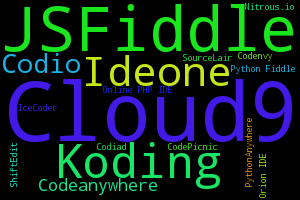
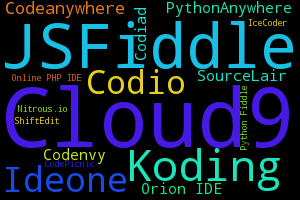
Undo ODE

diff --git a/ODE.html b/ODE.html
@@ -134,107 +134,103 @@ country["FR"]="France"
 function refreshTop() {        
 cloud = "All.png"
 table = "<!-- begin section All-->\
-<td class=center>1</td><td class=center></td><td>Cloud9</td><td class=right>32.65 %</td><td class=\"right optCol\">-1.6 %</td></tr>\
-<tr><td class=center>2</td><td class=center></td><td>JSFiddle</td><td class=right>25.32 %</td><td class=\"right optCol\">-7.6 %</td></tr>\
-<tr><td class=center>3</td><td class=center></td><td>Koding</td><td class=right>7.52 %</td><td class=\"right optCol\">-2.8 %</td></tr>\
-<tr><td class=center>4</td><td class=center><image src=Up.png><image src=Up.png><image src=Up.png><image src=Up.png><image src=Up.png><image src=Up.png><image src=Up.png><image src=Up.png><image src=Up.png><image src=Up.png><image src=Up.png><image src=Up.png></td><td>Orion IDE</td><td class=right>6.38 %</td><td class=\"right optCol\">+6.2 %</td></tr>\
-<tr><td class=center>5</td><td class=center><image src=Down.png></td><td>Ideone</td><td class=right>5.1 %</td><td class=\"right optCol\">-1.1 %</td></tr>\
-<tr><td class=center>6</td><td class=center><image src=Up.png><image src=Up.png><image src=Up.png><image src=Up.png><image src=Up.png><image src=Up.png></td><td>SourceLair</td><td class=right>4.32 %</td><td class=\"right optCol\">+4.0 %</td></tr>\
-<tr><td class=center>7</td><td class=center><image src=Down.png><image src=Down.png></td><td>Codio</td><td class=right>4.31 %</td><td class=\"right optCol\">-1.6 %</td></tr>\
-<tr><td class=center>8</td><td class=center><image src=Up.png><image src=Up.png><image src=Up.png><image src=Up.png><image src=Up.png><image src=Up.png><image src=Up.png><image src=Up.png><image src=Up.png></td><td>CodePicnic</td><td class=right>4.17 %</td><td class=\"right optCol\">+4.0 %</td></tr>\
-<tr><td class=center>9</td><td class=center><image src=Down.png><image src=Down.png><image src=Down.png></td><td>Codeanywhere</td><td class=right>3.46 %</td><td class=\"right optCol\">-0.6 %</td></tr>\
-<tr><td class=center>10</td><td class=center><image src=Down.png><image src=Down.png><image src=Down.png></td><td>PythonAnywhere</td><td class=right>2.39 %</td><td class=\"right optCol\">+0.3 %</td></tr>\
-<tr><td class=center>11</td><td class=center><image src=Up.png><image src=Up.png><image src=Up.png><image src=Up.png></td><td>Nitrous.io</td><td class=right>2.13 %</td><td class=\"right optCol\">+1.9 %</td></tr>\
-<tr><td class=center>12</td><td class=center><image src=Down.png><image src=Down.png><image src=Down.png><image src=Down.png></td><td>Codenvy</td><td class=right>1.12 %</td><td class=\"right optCol\">-0.4 %</td></tr>\
-<tr><td class=center>13</td><td class=center><image src=Down.png><image src=Down.png></td><td>Python Fiddle</td><td class=right>0.31 %</td><td class=\"right optCol\">-0.1 %</td></tr>\
-<tr><td class=center>14</td><td class=center><image src=Down.png><image src=Down.png><image src=Down.png><image src=Down.png><image src=Down.png></td><td>Codiad</td><td class=right>0.3 %</td><td class=\"right optCol\">-0.2 %</td></tr>\
-<tr><td class=center>15</td><td class=center><image src=Down.png><image src=Down.png><image src=Down.png><image src=Down.png><image src=Down.png></td><td>Online PHP IDE</td><td class=right>0.28 %</td><td class=\"right optCol\">-0.2 %</td></tr>\
-<tr><td class=center>16</td><td class=center><image src=Down.png><image src=Down.png></td><td>IceCoder</td><td class=right>0.12 %</td><td class=\"right optCol\">-0.1 %</td></tr>\
-<tr><td class=center>17</td><td class=center><image src=Down.png><image src=Down.png><image src=Down.png><image src=Down.png></td><td>ShiftEdit</td><td class=right>0.11 %</td><td class=\"right optCol\">-0.2 %</td>\
+<td class=center>1</td><td class=center></td><td>Cloud9</td><td class=right>37.59 %</td><td class=\"right optCol\">+2.0 %</td></tr>\
+<tr><td class=center>2</td><td class=center></td><td>JSFiddle</td><td class=right>32.25 %</td><td class=\"right optCol\">+0.0 %</td></tr>\
+<tr><td class=center>3</td><td class=center></td><td>Koding</td><td class=right>8.87 %</td><td class=\"right optCol\">-2.1 %</td></tr>\
+<tr><td class=center>4</td><td class=center></td><td>Ideone</td><td class=right>6.1 %</td><td class=\"right optCol\">-0.2 %</td></tr>\
+<tr><td class=center>5</td><td class=center></td><td>Codio</td><td class=right>5.25 %</td><td class=\"right optCol\">-0.6 %</td></tr>\
+<tr><td class=center>6</td><td class=center></td><td>Codeanywhere</td><td class=right>3.97 %</td><td class=\"right optCol\">+0.0 %</td></tr>\
+<tr><td class=center>7</td><td class=center></td><td>PythonAnywhere</td><td class=right>3.09 %</td><td class=\"right optCol\">+1.5 %</td></tr>\
+<tr><td class=center>8</td><td class=center></td><td>Codenvy</td><td class=right>1.44 %</td><td class=\"right optCol\">+0.1 %</td></tr>\
+<tr><td class=center>9</td><td class=center></td><td>Codiad</td><td class=right>0.36 %</td><td class=\"right optCol\">-0.1 %</td></tr>\
+<tr><td class=center>10</td><td class=center></td><td>Online PHP IDE</td><td class=right>0.34 %</td><td class=\"right optCol\">+0.2 %</td></tr>\
+<tr><td class=center>11</td><td class=center></td><td>Python Fiddle</td><td class=right>0.34 %</td><td class=\"right optCol\">-0.1 %</td></tr>\
+<tr><td class=center>12</td><td class=center><image src=Up.png><image src=Up.png></td><td>Orion IDE</td><td class=right>0.12 %</td><td class=\"right optCol\">+0.0 %</td></tr>\
+<tr><td class=center>13</td><td class=center><image src=Up.png><image src=Up.png></td><td>IceCoder</td><td class=right>0.1 %</td><td class=\"right optCol\">+0.0 %</td></tr>\
+<tr><td class=center>14</td><td class=center><image src=Down.png></td><td>Nitrous.io</td><td class=right>0.05 %</td><td class=\"right optCol\">-0.2 %</td></tr>\
+<tr><td class=center>15</td><td class=center><image src=Up.png></td><td>SourceLair</td><td class=right>0.05 %</td><td class=\"right optCol\">+0.0 %</td></tr>\
+<tr><td class=center>16</td><td class=center><image src=Down.png><image src=Down.png><image src=Down.png><image src=Down.png></td><td>ShiftEdit</td><td class=right>0.05 %</td><td class=\"right optCol\">-0.3 %</td></tr>\
+<tr><td class=center>17</td><td class=center></td><td>CodePicnic</td><td class=right>0.04 %</td><td class=\"right optCol\">+0.0 %</td>\
 <!-- end section All-->\
 ";
 if (getUrlParameter('country') == "US") {
 cloud = "US.png"
 table = "<!-- begin section US-->\
-<td class=center>1</td><td class=center></td><td>Cloud9</td><td class=right>55.43 %</td><td class=\"right optCol\">+6.1 %</td></tr>\
-<tr><td class=center>2</td><td class=center></td><td>JSFiddle</td><td class=right>29.84 %</td><td class=\"right optCol\">-3.0 %</td></tr>\
-<tr><td class=center>3</td><td class=center></td><td>Codeanywhere</td><td class=right>3.73 %</td><td class=\"right optCol\">-0.6 %</td></tr>\
-<tr><td class=center>4</td><td class=center><image src=Up.png><image src=Up.png><image src=Up.png></td><td>PythonAnywhere</td><td class=right>3.03 %</td><td class=\"right optCol\">+1.0 %</td></tr>\
-<tr><td class=center>5</td><td class=center><image src=Up.png></td><td>Codio</td><td class=right>2.11 %</td><td class=\"right optCol\">+0.1 %</td></tr>\
-<tr><td class=center>6</td><td class=center><image src=Down.png><image src=Down.png></td><td>Ideone</td><td class=right>1.89 %</td><td class=\"right optCol\">-1.2 %</td></tr>\
-<tr><td class=center>7</td><td class=center><image src=Down.png><image src=Down.png></td><td>Codenvy</td><td class=right>1.44 %</td><td class=\"right optCol\">-0.6 %</td></tr>\
-<tr><td class=center>8</td><td class=center></td><td>Koding</td><td class=right>1.39 %</td><td class=\"right optCol\">-0.5 %</td></tr>\
-<tr><td class=center>9</td><td class=center></td><td>Python Fiddle</td><td class=right>0.67 %</td><td class=\"right optCol\">-0.1 %</td></tr>\
-<tr><td class=center>10</td><td class=center><image src=Up.png><image src=Up.png></td><td>Codiad</td><td class=right>0.16 %</td><td class=\"right optCol\">-0.3 %</td></tr>\
-<tr><td class=center>11</td><td class=center><image src=Up.png><image src=Up.png></td><td>SourceLair</td><td class=right>0.16 %</td><td class=\"right optCol\">+0.1 %</td></tr>\
-<tr><td class=center>12</td><td class=center><image src=Down.png><image src=Down.png></td><td>Nitrous.io</td><td class=right>0.13 %</td><td class=\"right optCol\">-0.4 %</td></tr>\
-<tr><td class=center>13</td><td class=center><image src=Down.png><image src=Down.png></td><td>ShiftEdit</td><td class=right>0.03 %</td><td class=\"right optCol\">-0.5 %</td>\
+<td class=center>1</td><td class=center></td><td>Cloud9</td><td class=right>52.09 %</td><td class=\"right optCol\">+1.7 %</td></tr>\
+<tr><td class=center>2</td><td class=center></td><td>JSFiddle</td><td class=right>29.72 %</td><td class=\"right optCol\">-0.6 %</td></tr>\
+<tr><td class=center>3</td><td class=center></td><td>Codeanywhere</td><td class=right>3.62 %</td><td class=\"right optCol\">-1.1 %</td></tr>\
+<tr><td class=center>4</td><td class=center><image src=Up.png></td><td>PythonAnywhere</td><td class=right>2.99 %</td><td class=\"right optCol\">+1.0 %</td></tr>\
+<tr><td class=center>5</td><td class=center><image src=Up.png><image src=Up.png><image src=Up.png></td><td>Codio</td><td class=right>2.35 %</td><td class=\"right optCol\">+0.5 %</td></tr>\
+<tr><td class=center>6</td><td class=center><image src=Down.png><image src=Down.png></td><td>Ideone</td><td class=right>2.26 %</td><td class=\"right optCol\">-0.7 %</td></tr>\
+<tr><td class=center>7</td><td class=center></td><td>Codenvy</td><td class=right>1.99 %</td><td class=\"right optCol\">-0.2 %</td></tr>\
+<tr><td class=center>8</td><td class=center><image src=Down.png><image src=Down.png></td><td>Koding</td><td class=right>1.72 %</td><td class=\"right optCol\">-0.8 %</td></tr>\
+<tr><td class=center>9</td><td class=center><image src=Up.png><image src=Up.png></td><td>Python Fiddle</td><td class=right>1.46 %</td><td class=\"right optCol\">+0.9 %</td></tr>\
+<tr><td class=center>10</td><td class=center></td><td>Codiad</td><td class=right>0.74 %</td><td class=\"right optCol\">-0.1 %</td></tr>\
+<tr><td class=center>11</td><td class=center><image src=Down.png><image src=Down.png></td><td>ShiftEdit</td><td class=right>0.43 %</td><td class=\"right optCol\">-0.1 %</td></tr>\
+<tr><td class=center>12</td><td class=center></td><td>Nitrous.io</td><td class=right>0.38 %</td><td class=\"right optCol\">+0.0 %</td></tr>\
+<tr><td class=center>13</td><td class=center></td><td>SourceLair</td><td class=right>0.26 %</td><td class=\"right optCol\">-0.3 %</td>\
 <!-- end section US-->\
 ";
 }
 if (getUrlParameter('country') == "DE") {
 cloud = "DE.png"
 table = "<!-- begin section DE-->\
-<td class=center>1</td><td class=center><image src=Up.png></td><td>Cloud9</td><td class=right>49.05 %</td><td class=\"right optCol\">+7.8 %</td></tr>\
-<tr><td class=center>2</td><td class=center><image src=Down.png></td><td>JSFiddle</td><td class=right>36.02 %</td><td class=\"right optCol\">-7.4 %</td></tr>\
-<tr><td class=center>3</td><td class=center></td><td>Codeanywhere</td><td class=right>3.47 %</td><td class=\"right optCol\">+0.4 %</td></tr>\
-<tr><td class=center>4</td><td class=center><image src=Up.png><image src=Up.png><image src=Up.png></td><td>PythonAnywhere</td><td class=right>2.43 %</td><td class=\"right optCol\">+0.6 %</td></tr>\
-<tr><td class=center>5</td><td class=center></td><td>Ideone</td><td class=right>2.33 %</td><td class=\"right optCol\">-0.1 %</td></tr>\
-<tr><td class=center>6</td><td class=center></td><td>Koding</td><td class=right>2.3 %</td><td class=\"right optCol\">-0.1 %</td></tr>\
-<tr><td class=center>7</td><td class=center><image src=Up.png></td><td>Codenvy</td><td class=right>1.79 %</td><td class=\"right optCol\">+0.4 %</td></tr>\
-<tr><td class=center>8</td><td class=center><image src=Down.png><image src=Down.png><image src=Down.png><image src=Down.png></td><td>Codiad</td><td class=right>1.64 %</td><td class=\"right optCol\">-0.9 %</td></tr>\
-<tr><td class=center>9</td><td class=center></td><td>Codio</td><td class=right>0.6 %</td><td class=\"right optCol\">-0.7 %</td></tr>\
-<tr><td class=center>10</td><td class=center></td><td>Orion IDE</td><td class=right>0.38 %</td><td class=\"right optCol\">-0.1 %</td>\
+<td class=center>1</td><td class=center><image src=Up.png></td><td>Cloud9</td><td class=right>42.37 %</td><td class=\"right optCol\">+4.0 %</td></tr>\
+<tr><td class=center>2</td><td class=center><image src=Down.png></td><td>JSFiddle</td><td class=right>35.65 %</td><td class=\"right optCol\">-1.1 %</td></tr>\
+<tr><td class=center>3</td><td class=center></td><td>Codeanywhere</td><td class=right>6.33 %</td><td class=\"right optCol\">-0.1 %</td></tr>\
+<tr><td class=center>4</td><td class=center></td><td>Koding</td><td class=right>4.98 %</td><td class=\"right optCol\">-1.7 %</td></tr>\
+<tr><td class=center>5</td><td class=center><image src=Up.png></td><td>Codenvy</td><td class=right>2.66 %</td><td class=\"right optCol\">+1.2 %</td></tr>\
+<tr><td class=center>6</td><td class=center><image src=Down.png></td><td>Ideone</td><td class=right>2.22 %</td><td class=\"right optCol\">-3.5 %</td></tr>\
+<tr><td class=center>7</td><td class=center><image src=Up.png><image src=Up.png></td><td>PythonAnywhere</td><td class=right>1.85 %</td><td class=\"right optCol\">+0.9 %</td></tr>\
+<tr><td class=center>8</td><td class=center></td><td>Codiad</td><td class=right>1.74 %</td><td class=\"right optCol\">+0.2 %</td></tr>\
+<tr><td class=center>9</td><td class=center><image src=Up.png></td><td>Orion IDE</td><td class=right>1.65 %</td><td class=\"right optCol\">+1.8 %</td></tr>\
+<tr><td class=center>10</td><td class=center><image src=Down.png><image src=Down.png><image src=Down.png></td><td>Codio</td><td class=right>0.54 %</td><td class=\"right optCol\">-1.6 %</td>\
 <!-- end section DE-->\
 ";
 }
 if (getUrlParameter('country') == "IN") {
 cloud = "IN.png"
 table = "<!-- begin section IN-->\
-<td class=center>1</td><td class=center></td><td>JSFiddle</td><td class=right>62.41 %</td><td class=\"right optCol\">-1.0 %</td></tr>\
-<tr><td class=center>2</td><td class=center></td><td>Ideone</td><td class=right>17.88 %</td><td class=\"right optCol\">-2.8 %</td></tr>\
-<tr><td class=center>3</td><td class=center></td><td>Cloud9</td><td class=right>13.06 %</td><td class=\"right optCol\">+2.4 %</td></tr>\
-<tr><td class=center>4</td><td class=center><image src=Up.png></td><td>PythonAnywhere</td><td class=right>2.86 %</td><td class=\"right optCol\">+1.7 %</td></tr>\
-<tr><td class=center>5</td><td class=center><image src=Up.png><image src=Up.png></td><td>Codeanywhere</td><td class=right>1.24 %</td><td class=\"right optCol\">+0.4 %</td></tr>\
-<tr><td class=center>6</td><td class=center></td><td>Codenvy</td><td class=right>0.82 %</td><td class=\"right optCol\">-0.1 %</td></tr>\
-<tr><td class=center>7</td><td class=center><image src=Down.png><image src=Down.png><image src=Down.png></td><td>Koding</td><td class=right>0.71 %</td><td class=\"right optCol\">-0.9 %</td></tr>\
-<tr><td class=center>8</td><td class=center><image src=Up.png><image src=Up.png></td><td>Python Fiddle</td><td class=right>0.41 %</td><td class=\"right optCol\">+0.3 %</td></tr>\
-<tr><td class=center>9</td><td class=center><image src=Down.png></td><td>Codio</td><td class=right>0.36 %</td><td class=\"right optCol\">-0.2 %</td></tr>\
-<tr><td class=center>10</td><td class=center><image src=Down.png></td><td>Codiad</td><td class=right>0.25 %</td><td class=\"right optCol\">+0.1 %</td></tr>\
-<tr><td class=center>11</td><td class=center></td><td>SourceLair</td><td class=right>0.0 %</td><td class=\"right optCol\">+0.0 %</td>\
+<td class=center>1</td><td class=center></td><td>JSFiddle</td><td class=right>58.77 %</td><td class=\"right optCol\">-5.5 %</td></tr>\
+<tr><td class=center>2</td><td class=center></td><td>Ideone</td><td class=right>18.61 %</td><td class=\"right optCol\">+3.0 %</td></tr>\
+<tr><td class=center>3</td><td class=center></td><td>Cloud9</td><td class=right>12.02 %</td><td class=\"right optCol\">+0.7 %</td></tr>\
+<tr><td class=center>4</td><td class=center><image src=Up.png></td><td>PythonAnywhere</td><td class=right>3.04 %</td><td class=\"right optCol\">+1.6 %</td></tr>\
+<tr><td class=center>5</td><td class=center><image src=Up.png></td><td>Codeanywhere</td><td class=right>1.88 %</td><td class=\"right optCol\">+0.5 %</td></tr>\
+<tr><td class=center>6</td><td class=center><image src=Down.png><image src=Down.png></td><td>Koding</td><td class=right>1.66 %</td><td class=\"right optCol\">-1.6 %</td></tr>\
+<tr><td class=center>7</td><td class=center><image src=Up.png></td><td>Codenvy</td><td class=right>1.41 %</td><td class=\"right optCol\">+0.2 %</td></tr>\
+<tr><td class=center>8</td><td class=center><image src=Up.png></td><td>Codiad</td><td class=right>0.9 %</td><td class=\"right optCol\">+0.6 %</td></tr>\
+<tr><td class=center>9</td><td class=center><image src=Up.png></td><td>Python Fiddle</td><td class=right>0.81 %</td><td class=\"right optCol\">+0.8 %</td></tr>\
+<tr><td class=center>10</td><td class=center><image src=Down.png><image src=Down.png><image src=Down.png></td><td>Codio</td><td class=right>0.77 %</td><td class=\"right optCol\">-0.2 %</td></tr>\
+<tr><td class=center>11</td><td class=center></td><td>SourceLair</td><td class=right>0.12 %</td><td class=\"right optCol\">+0.0 %</td>\
 <!-- end section IN-->\
 ";
 }
 if (getUrlParameter('country') == "GB") {
 cloud = "GB.png"
 table = "<!-- begin section GB-->\
-<td class=center>1</td><td class=center></td><td>Cloud9</td><td class=right>49.97 %</td><td class=\"right optCol\">+13.8 %</td></tr>\
-<tr><td class=center>2</td><td class=center></td><td>JSFiddle</td><td class=right>29.53 %</td><td class=\"right optCol\">-3.3 %</td></tr>\
-<tr><td class=center>3</td><td class=center></td><td>Codio</td><td class=right>8.58 %</td><td class=\"right optCol\">-8.7 %</td></tr>\
-<tr><td class=center>4</td><td class=center><image src=Up.png></td><td>PythonAnywhere</td><td class=right>3.55 %</td><td class=\"right optCol\">+0.7 %</td></tr>\
-<tr><td class=center>5</td><td class=center><image src=Down.png></td><td>Codeanywhere</td><td class=right>3.07 %</td><td class=\"right optCol\">-2.0 %</td></tr>\
-<tr><td class=center>6</td><td class=center><image src=Up.png><image src=Up.png><image src=Up.png></td><td>Codenvy</td><td class=right>1.36 %</td><td class=\"right optCol\">+0.7 %</td></tr>\
-<tr><td class=center>7</td><td class=center><image src=Up.png></td><td>Python Fiddle</td><td class=right>1.26 %</td><td class=\"right optCol\">+0.3 %</td></tr>\
-<tr><td class=center>8</td><td class=center><image src=Down.png></td><td>Ideone</td><td class=right>1.14 %</td><td class=\"right optCol\">-0.4 %</td></tr>\
-<tr><td class=center>9</td><td class=center><image src=Down.png><image src=Down.png><image src=Down.png></td><td>Koding</td><td class=right>0.95 %</td><td class=\"right optCol\">-1.1 %</td></tr>\
-<tr><td class=center>10</td><td class=center></td><td>Codiad</td><td class=right>0.34 %</td><td class=\"right optCol\">+0.0 %</td></tr>\
-<tr><td class=center>11</td><td class=center></td><td>ShiftEdit</td><td class=right>0.25 %</td><td class=\"right optCol\">+0.2 %</td>\
+<td class=center>1</td><td class=center></td><td>Cloud9</td><td class=right>44.94 %</td><td class=\"right optCol\">+7.8 %</td></tr>\
+<tr><td class=center>2</td><td class=center></td><td>JSFiddle</td><td class=right>35.0 %</td><td class=\"right optCol\">+7.5 %</td></tr>\
+<tr><td class=center>3</td><td class=center></td><td>Codio</td><td class=right>7.01 %</td><td class=\"right optCol\">-17.3 %</td></tr>\
+<tr><td class=center>4</td><td class=center></td><td>Codeanywhere</td><td class=right>4.33 %</td><td class=\"right optCol\">+0.5 %</td></tr>\
+<tr><td class=center>5</td><td class=center></td><td>PythonAnywhere</td><td class=right>4.32 %</td><td class=\"right optCol\">+1.2 %</td></tr>\
+<tr><td class=center>6</td><td class=center><image src=Up.png></td><td>Ideone</td><td class=right>2.43 %</td><td class=\"right optCol\">+1.1 %</td></tr>\
+<tr><td class=center>7</td><td class=center><image src=Up.png></td><td>Codenvy</td><td class=right>1.33 %</td><td class=\"right optCol\">+0.6 %</td></tr>\
+<tr><td class=center>8</td><td class=center><image src=Down.png><image src=Down.png></td><td>Koding</td><td class=right>0.29 %</td><td class=\"right optCol\">-2.1 %</td></tr>\
+<tr><td class=center>9</td><td class=center><image src=Up.png><image src=Up.png><image src=Up.png><image src=Up.png><image src=Up.png><image src=Up.png><image src=Up.png></td><td>Codiad</td><td class=right>0.24 %</td><td class=\"right optCol\">+0.5 %</td></tr>\
+<tr><td class=center>10</td><td class=center><image src=Down.png></td><td>Python Fiddle</td><td class=right>0.16 %</td><td class=\"right optCol\">+0.1 %</td>\
 <!-- end section GB-->\
 ";
 }
 if (getUrlParameter('country') == "FR") {
 cloud = "FR.png"
 table = "<!-- begin section FR-->\
-<td class=center>1</td><td class=center></td><td>JSFiddle</td><td class=right>44.22 %</td><td class=\"right optCol\">+2.6 %</td></tr>\
-<tr><td class=center>2</td><td class=center></td><td>Cloud9</td><td class=right>37.21 %</td><td class=\"right optCol\">-2.3 %</td></tr>\
-<tr><td class=center>3</td><td class=center></td><td>Codeanywhere</td><td class=right>5.34 %</td><td class=\"right optCol\">+0.1 %</td></tr>\
-<tr><td class=center>4</td><td class=center><image src=Up.png><image src=Up.png></td><td>PythonAnywhere</td><td class=right>4.28 %</td><td class=\"right optCol\">+2.2 %</td></tr>\
-<tr><td class=center>5</td><td class=center><image src=Up.png><image src=Up.png><image src=Up.png><image src=Up.png></td><td>Codenvy</td><td class=right>2.6 %</td><td class=\"right optCol\">+0.7 %</td></tr>\
-<tr><td class=center>6</td><td class=center><image src=Down.png><image src=Down.png></td><td>Ideone</td><td class=right>2.33 %</td><td class=\"right optCol\">-0.9 %</td></tr>\
-<tr><td class=center>7</td><td class=center><image src=Down.png><image src=Down.png></td><td>Codiad</td><td class=right>2.19 %</td><td class=\"right optCol\">-0.3 %</td></tr>\
-<tr><td class=center>8</td><td class=center><image src=Down.png></td><td>Koding</td><td class=right>1.35 %</td><td class=\"right optCol\">-0.6 %</td></tr>\
-<tr><td class=center>9</td><td class=center><image src=Down.png></td><td>Codio</td><td class=right>0.25 %</td><td class=\"right optCol\">-1.7 %</td></tr>\
-<tr><td class=center>10</td><td class=center></td><td>IceCoder</td><td class=right>0.23 %</td><td class=\"right optCol\">+0.2 %</td>\
+<td class=center>1</td><td class=center></td><td>JSFiddle</td><td class=right>45.68 %</td><td class=\"right optCol\">-4.9 %</td></tr>\
+<tr><td class=center>2</td><td class=center></td><td>Cloud9</td><td class=right>42.95 %</td><td class=\"right optCol\">+3.7 %</td></tr>\
+<tr><td class=center>3</td><td class=center><image src=Up.png></td><td>Codeanywhere</td><td class=right>4.8 %</td><td class=\"right optCol\">+2.6 %</td></tr>\
+<tr><td class=center>4</td><td class=center><image src=Up.png></td><td>Codiad</td><td class=right>3.48 %</td><td class=\"right optCol\">-1.7 %</td></tr>\
+<tr><td class=center>5</td><td class=center><image src=Down.png><image src=Down.png></td><td>Koding</td><td class=right>2.1 %</td><td class=\"right optCol\">+0.1 %</td></tr>\
+<tr><td class=center>6</td><td class=center></td><td>PythonAnywhere</td><td class=right>0.74 %</td><td class=\"right optCol\">-0.9 %</td></tr>\
+<tr><td class=center>7</td><td class=center><image src=Up.png></td><td>Ideone</td><td class=right>0.59 %</td><td class=\"right optCol\">+0.5 %</td>\
 <!-- end section FR-->\
 ";
 }
@@ -246,8 +242,8 @@ document.getElementById("cloud").src="ODE/"+cloud;
 </script>
 
   </head>
-  
-  
+
+
 <body>
     <nav class="navbar navbar-inverse navbar-fixed-top">
       <div class="container">
@@ -436,10 +432,11 @@ document.getElementById("cloud").src="ODE/"+cloud;
             <div id="collapseFour" class="panel-collapse collapse">
                 <div class="panel-body">
                     <div>We export the data from Google Trends in CSV format,
-                    <sup><a href="http://support.google.com/trends/bin/answer.py?hl=en&amp;answer=87289">[s]</a></sup> 
-                    and analyze it with Python's pandas.
+                    <sup><a href="http://support.google.com/trends/bin/answer.py?hl=en&amp;answer=87289">[s]</a></sup>
+                    and analyze it with <a href=https://sites.google.com/site/pydatalog/home>pyDatalog</a>.
                     We first calculate the interest of each Online IDE relative to Cloud9 every month.
                     Normalizing the total to 100% yields the share of interest in each Online IDE, i.e. their popularity, which we smooth over 6 months.
+                    Linear regression over the last 12 months gives the yearly trends.
                     </div>
                 </div>
             </div>
@@ -470,7 +467,7 @@ document.getElementById("cloud").src="ODE/"+cloud;
               ltr = coded.charAt(i)
               link += (ltr)
             }
-            else {     
+            else {
               ltr = (key.indexOf(coded.charAt(i))-shift+key.length) % key.length
               link += (key.charAt(ltr))
             }
@@ -501,12 +498,12 @@ document.getElementById("cloud").src="ODE/"+cloud;
 
 <script>
 $.ajaxSetup({async:false});
-if (getUrlParameter('country') == "") {$.getScript("ODE/All.js?t=axbAll3591Allbxa")}
-if (getUrlParameter('country') == "US") {$.getScript("ODE/US.js?t=axbUS1630USbxa")}
-if (getUrlParameter('country') == "DE") {$.getScript("ODE/DE.js?t=axbDE98DEbxa")}
-if (getUrlParameter('country') == "IN") {$.getScript("ODE/IN.js?t=axbIN9387INbxa")}
-if (getUrlParameter('country') == "GB") {$.getScript("ODE/GB.js?t=axbGB838GBbxa")}
-if (getUrlParameter('country') == "FR") {$.getScript("ODE/FR.js?t=axbFR1639FRbxa")}
+if (getUrlParameter('country') == "") {$.getScript("ODE/All.js?t=axbAll3040Allbxa")}
+if (getUrlParameter('country') == "US") {$.getScript("ODE/US.js?t=axbUS4326USbxa")}
+if (getUrlParameter('country') == "DE") {$.getScript("ODE/DE.js?t=axbDE7716DEbxa")}
+if (getUrlParameter('country') == "IN") {$.getScript("ODE/IN.js?t=axbIN655INbxa")}
+if (getUrlParameter('country') == "GB") {$.getScript("ODE/GB.js?t=axbGB3790GBbxa")}
+if (getUrlParameter('country') == "FR") {$.getScript("ODE/FR.js?t=axbFR9818FRbxa")}
 $.ajaxSetup({async:true});
 
 upDate = graphData[graphData.length - 1][0]

diff --git a/ODE/All.js b/ODE/All.js
@@ -64,4 +64,3 @@ graphData = [
 [new Date(2017,12,1), 0.376,0.322,0.089,0.061,0.053,0.04,0.031,0.014,0.004,0.001,0.0,0.001,0.003,0.003,0.001,0.001,0.0]
 // end section All
         ];
-
